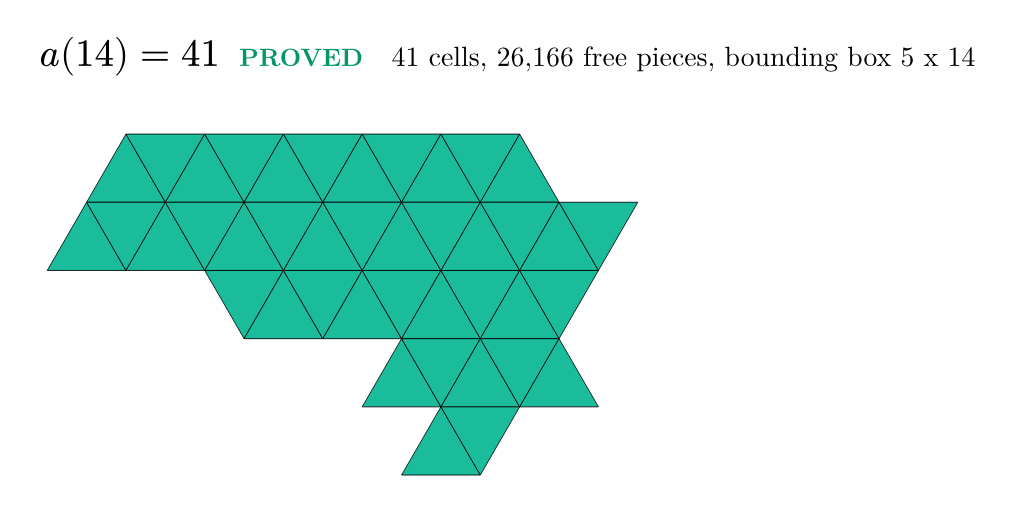
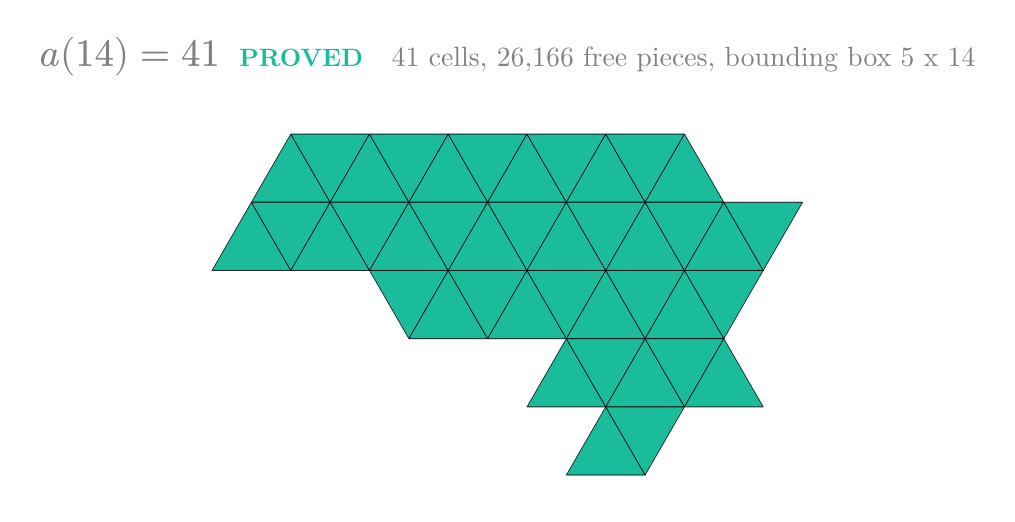
Hero: gray text (dark-mode legible) + center-aligned in README

diff --git a/README.md b/README.md
@@ -17,7 +17,7 @@ a(n) = the minimum number of cells in a connected polyiamond such that every fre
 
 All 14 terms proved by SAT solver (Glucose 4.2 via PySAT) with CEGAR connectivity cuts. Each a(n) confirmed by SAT at k cells, UNSAT at k-1. Every reported value independently re-verified by brute-force enumeration (each free n-iamond tested against every orientation and offset inside the reported container). Terms n=10..14 additionally cross-validated on a larger grid (rows+1): same answers.
 
-![a(14) = 41: smallest container for all 26,166 free 14-iamonds](submission/a14-container.png)
+<p align="center"><img src="submission/a14-container.png" alt="a(14) = 41: smallest container for all 26,166 free 14-iamonds"></p>
 
 ## Grid Family Comparison
 